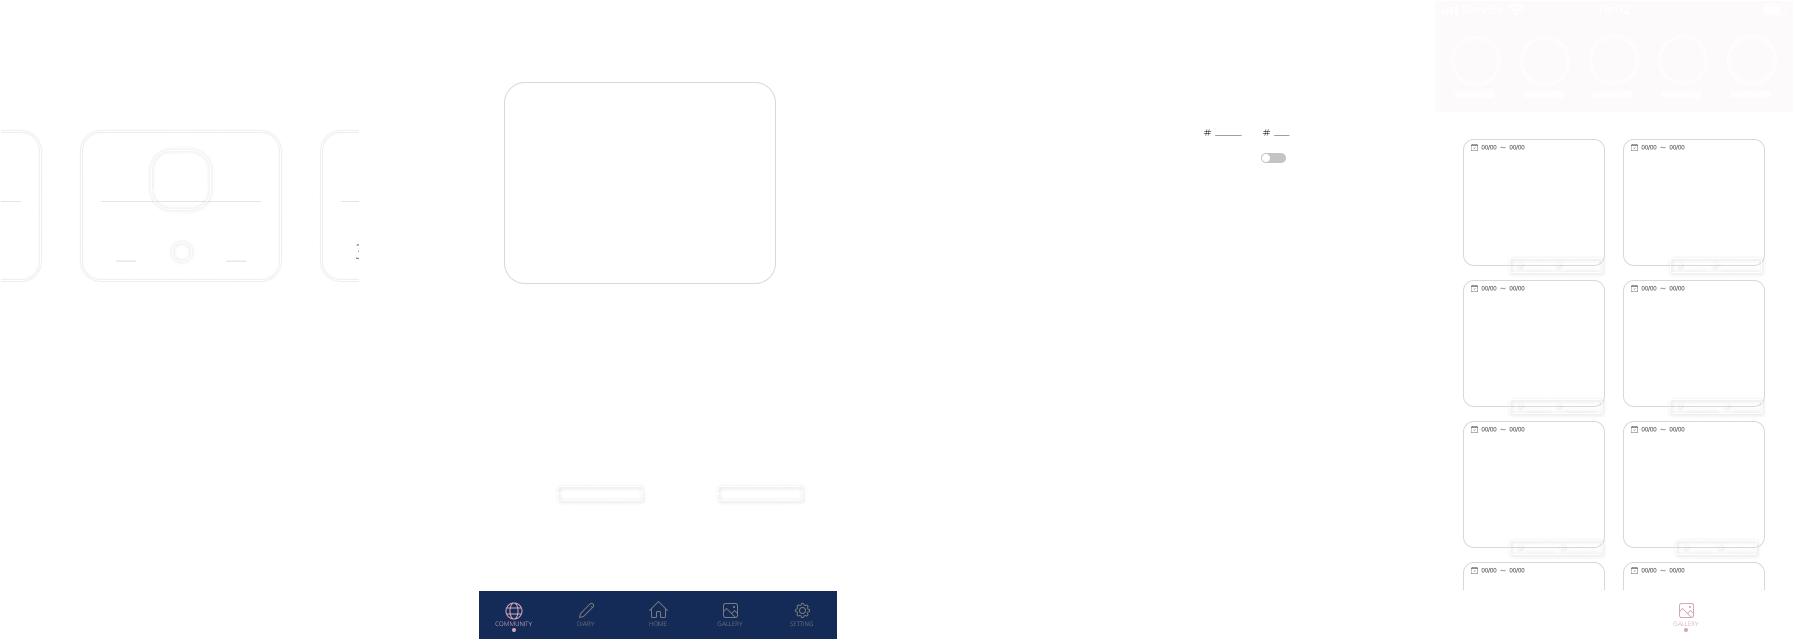
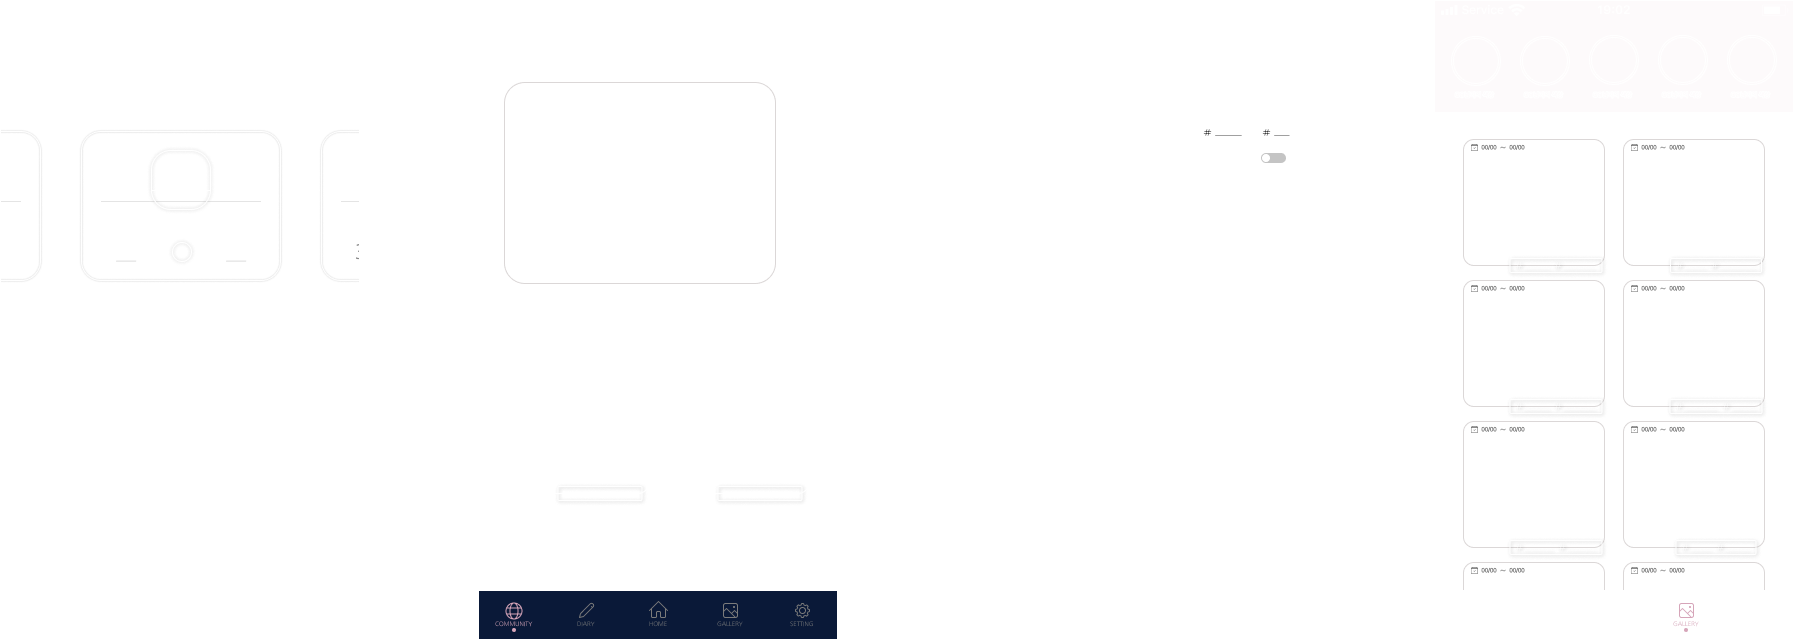
작업

Changed region(s): [[0.2497, 0.9062, 0.4682, 1.0]]

diff --git a/docs/pf/work/index.css b/docs/pf/work/index.css
@@ -238,6 +238,16 @@
   opacity: 80%;
 }
 
+.D-diary-pallet {
+  top:65.5%;
+  left:78%;
+  width:18%;
+}
+
+.D-diary-pallet > img {
+  opacity: 90%;
+}
+
 .D-choose {
   top:71%;
   left:28%;
@@ -251,14 +261,14 @@
 }
 
 .D-main_notice {
-  top:79.2%;
+  top:78.75%;
   left:75%;
   width:15%;
 }
 
 .D-main_schedule {
-  top:81.5%;
-  left:75%;
+  top:81.3%;
+  left:75.5%;
   width:15%;
 }
 

diff --git a/docs/pf/work/index.js b/docs/pf/work/index.js
@@ -122,6 +122,20 @@ $(function () {
       duration: 1.8
     });
 
+    gsap.fromTo('.D-diary-pallet', {
+      opacity: 0,
+      y: 50,
+    }, {
+      opacity: 1,
+      y: 0,
+      scrollTrigger: {
+        trigger: '.D-h2',
+        start: '0% 0%',
+        end: '100% 30%'
+      },
+      duration: 1.8
+    });
+
     gsap.fromTo('.D-main-2', {
       opacity: 0,
       x: 50,

diff --git a/docs/pf/work/index.html b/docs/pf/work/index.html
@@ -161,6 +161,9 @@
     <div class="absolute D-diary-2">
       <img src="./img/일기 쓰기 (2).png" alt="">
     </div>
+    <div class="absolute D-diary-pallet">
+      <img src="./img/pallet.png" alt="">
+    </div>
 
     <!-- 선택창 -->
     <div class="absolute D-choose">
